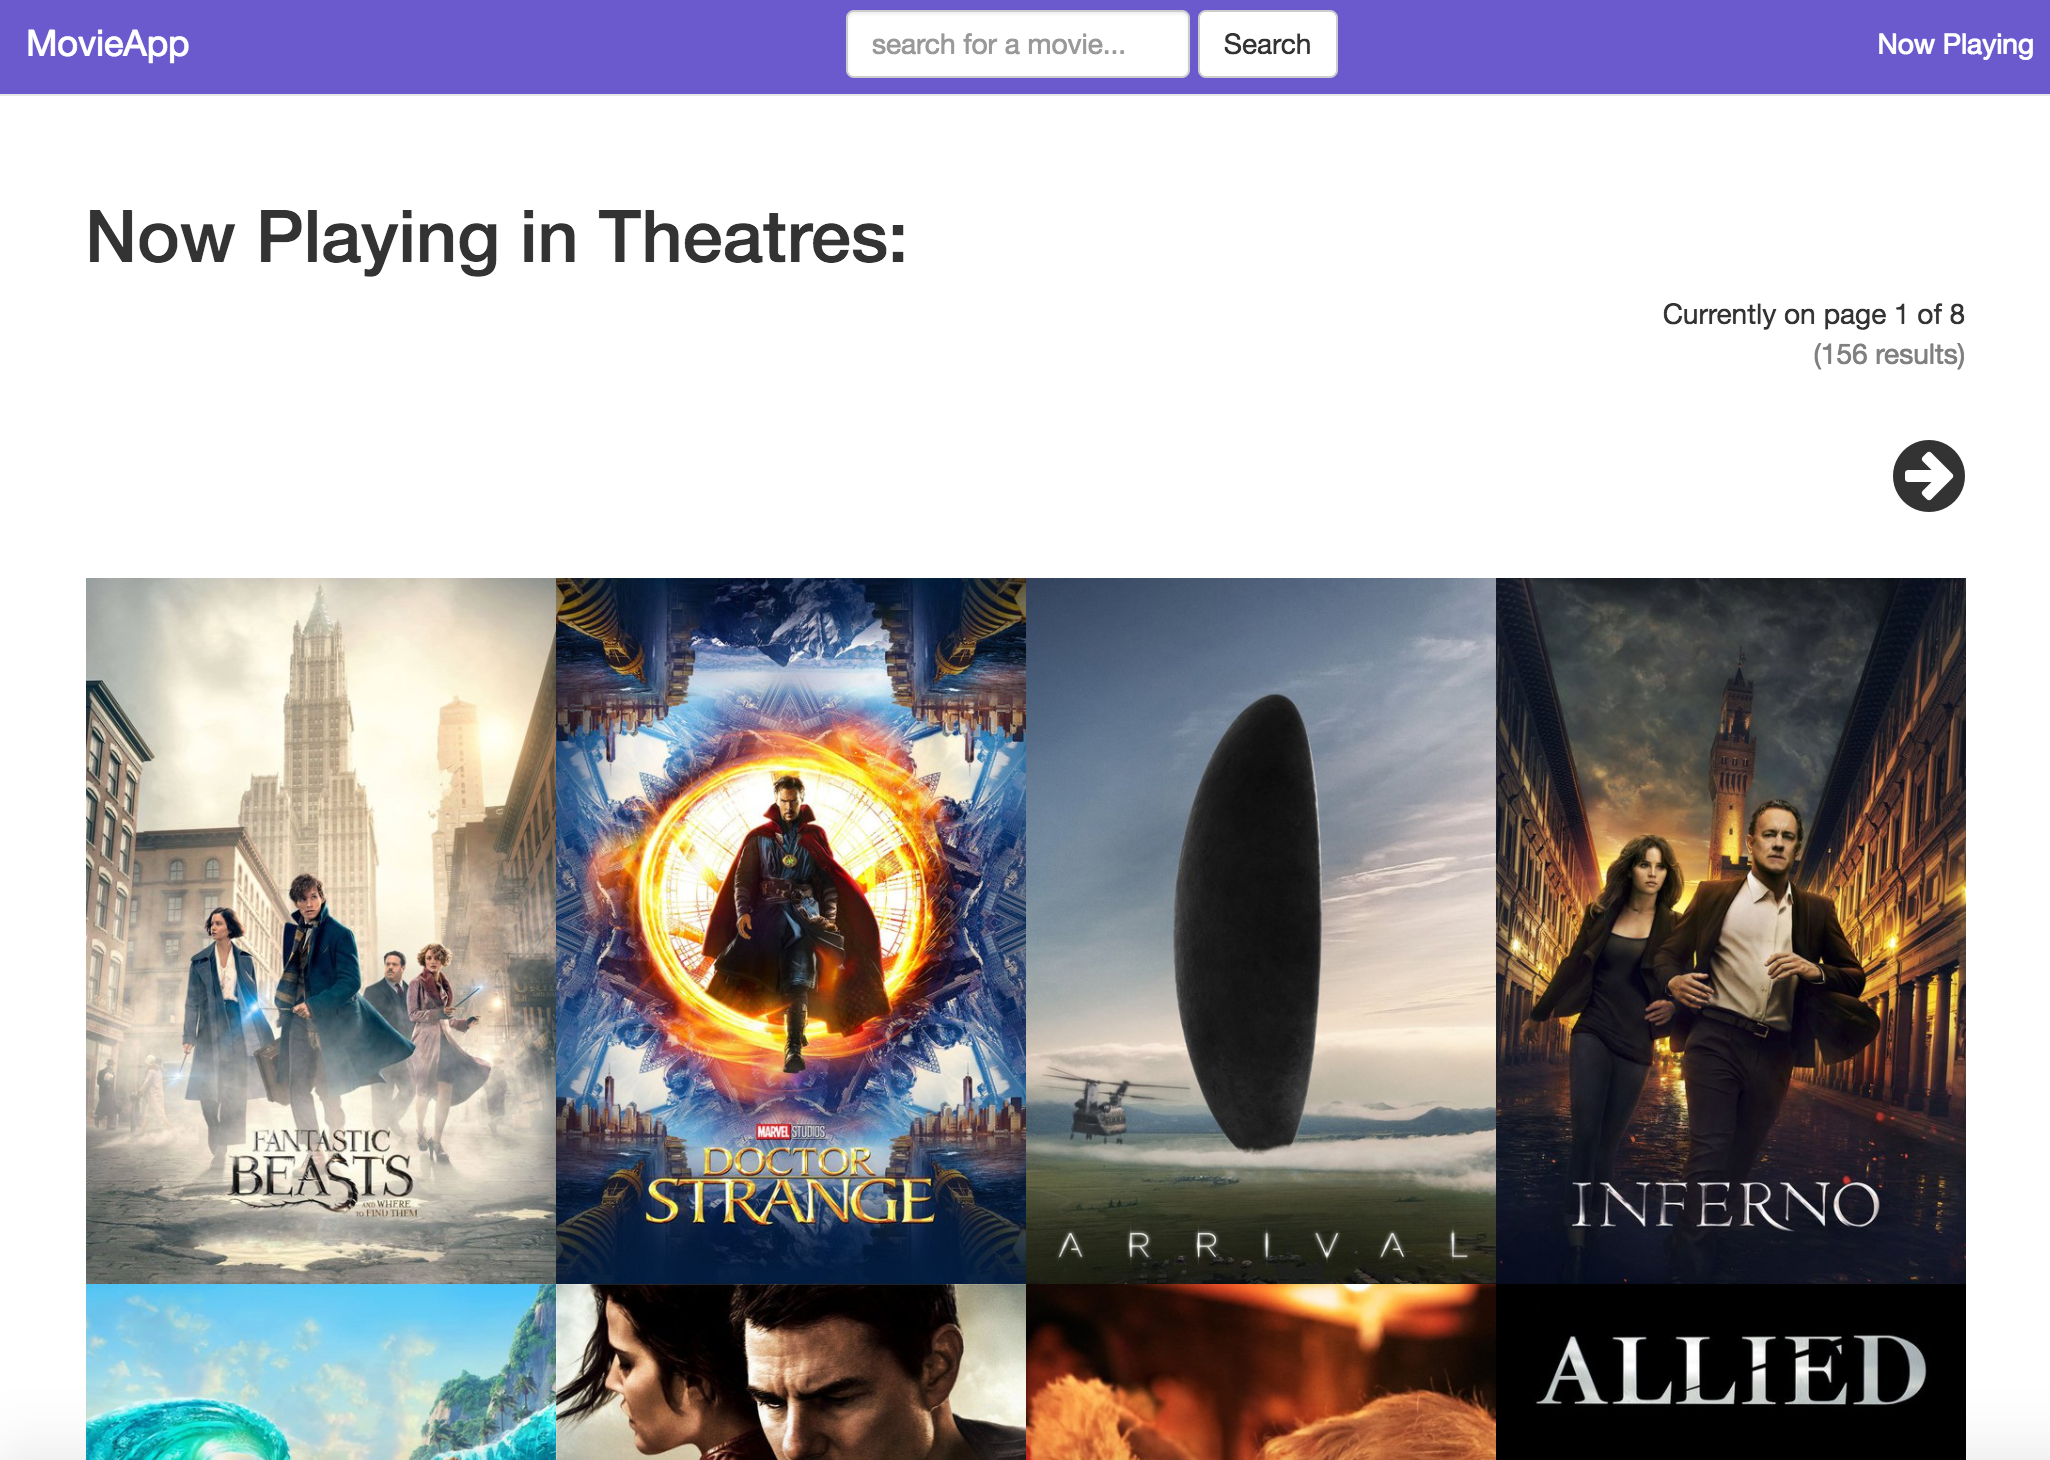
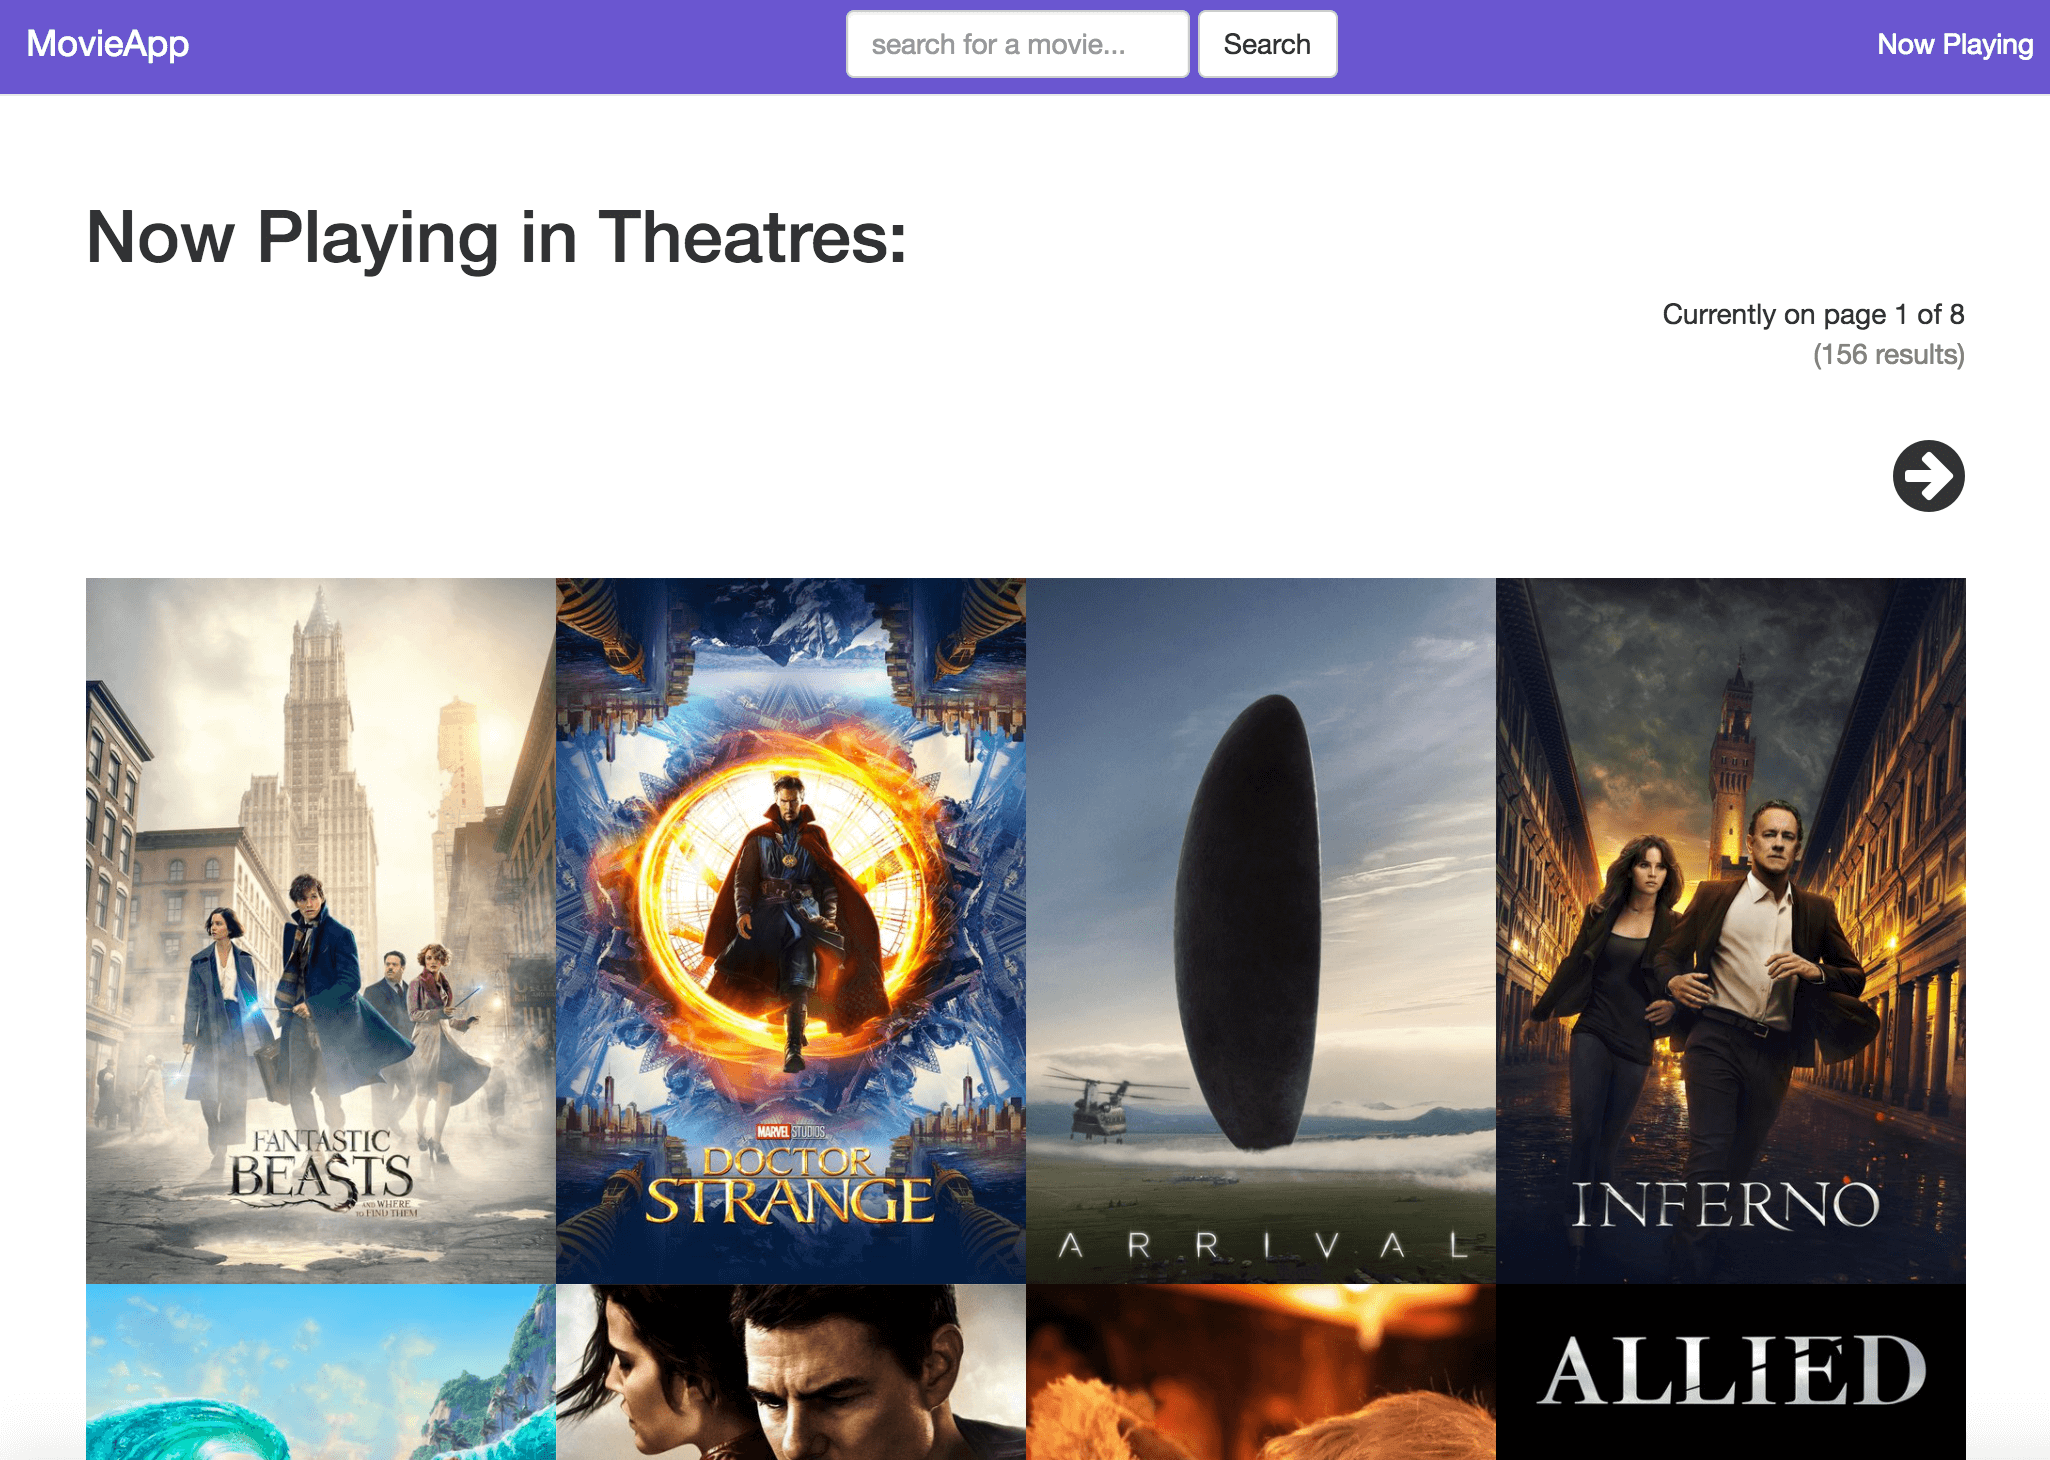
modify images (compressed) and add link in README.md

diff --git a/index.html b/index.html
@@ -8,7 +8,7 @@
     <link rel="stylesheet" href="https://maxcdn.bootstrapcdn.com/font-awesome/4.7.0/css/font-awesome.min.css" media="screen" title="no title">
     <link rel="stylesheet" href="css/style.css" media="screen" title="no title">
   </head>
-  <body ng-app="movie-app" >
+  <body ng-app="movie-app">
 
     <nav class="navbar navbar-default">
       <div class="container-fluid">

diff --git a/README.md b/README.md
@@ -6,7 +6,7 @@ create a movie search engine application using AngularJS, UI Router, Ajax, Angul
 ### Live Demo:
 
 TBD
-<!-- [MovieApp] (http://xmasblackjack.surge.sh/) -->
+[MovieApp] (http://iamclamclam.com/movie_app)
 
 ### Languages used:
 
